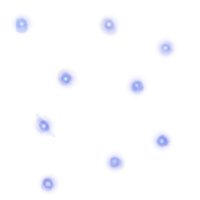
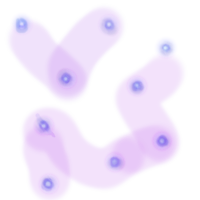
refactors to single component

diff --git a/src/App.vue b/src/App.vue
@@ -1,18 +1,85 @@
 <template>
-  <div id="app">
-    <Game/>
+  <div id="app" ref="wrapper">
+    <div id="back" class="parallax" v-bind:style="{
+      backgroundPositionX: computedX,
+      backgroundPositionY: computedY
+      }">
+    </div>
+    <div id="mid" class="parallax" v-bind:style="{
+      backgroundPositionX: computedX,
+      backgroundPositionY: computedY
+      }">
+    </div>
+    <!-- <div id="front" class="parallax" v-bind:style="{
+      backgroundPositionX: computedX,
+      backgroundPositionY: computedY
+      }">
+    </div> -->
   </div>
 </template>
 
 <script>
-import Game from './components/Game.vue'
-// import { eventBus } from './main.js';
 
 export default {
   name: 'app',
-  components: {
-    Game
+  data() {
+    return {
+      backgroundX: null,
+      backgroundY: null,
+    }
   },
+  computed: {
+    computedX: function () {
+      return this.backgroundX + 'px';
+    },
+    computedY: function () {
+      return this.backgroundY + 'px';
+    }
+  },
+  methods: {
+    addEvent(target, event, listener) {
+      if (target.addEventListener) {
+        target.addEventListener(event, listener);
+      }
+    },
+
+    mouseMove(event) {
+      let windowX = window.innerWidth;
+      let windowY = window.innerHeight;
+      let x = event.pageX;
+      let y = event.pageY;
+      // let newX = x - (windowX / 2);
+      // let newY = y - (windowY / 2);
+
+      this.backgroundX = (windowX - x);
+      this.backgroundY = (windowY - y);
+
+      /*
+      if mouse is in center:
+        set bg position to mouse position
+      otherwise:
+        add mouse position to bg position
+      */
+
+      // if (this.backgroundX == null || this.backgroundY == null) {
+      //   this.backgroundX = (windowX - x);
+      //   this.backgroundY = (windowY - y);
+      //   return;
+      // } else if ((newX > -10 && newX < 10) || (newY > -10 && newY < 10)) {
+      //   this.backgroundX = (windowX - x);
+      //   this.backgroundY = (windowY - y);
+      //   return;
+      // } else {
+      //   this.backgroundX += (windowX - x) / 2;
+      //   this.backgroundY += (windowY - y) / 2;
+      //   return;
+      // }
+    },
+  },
+  mounted() {
+    let wrapper = this.$refs.wrapper;
+    this.addEvent(wrapper, "mousemove", this.mouseMove);
+  }
 }
 </script>
 
@@ -20,14 +87,46 @@ export default {
 
 body {
   margin: 0;
-  background-color: black;
+  background: black;
   text-align: center;
   color: white;
 }
 
 #app {
   height: 100%;
-  width: auto;
+  width: 100%;
+}
+
+#app:hover {
+  cursor: crosshair;
+}
+
+#back {
+  background-image: url('./assets/background/stars_back.png');
+  z-index: 0;
+  transition-duration: 2s;
+}
+
+#mid {
+  background-image: url('./assets/background/stars_mid.png');
+  z-index: 2;
+  transition-duration: 3s;
+}
+
+#front {
+  background-image: url('./assets/background/stars_front.png');
+  z-index: 3;
+  transition-duration: 5s;
+}
+
+.parallax {
+  position: fixed;
+  height: 100%;
+  width: 100%;
+  background-attachment: local;
+  background-position: center;
+  background-repeat: repeat;
+  background-size: auto;
 }
 
 </style>

diff --git a/src/components/Game.vue b/src/components/Game.vue
@@ -1,4 +1,4 @@
-<template lang="html">
+<!-- <template lang="html">
   <div id="wrapper" ref="wrapper">
     <div id="back" class="parallax" v-bind:style="{
       backgroundPositionX: computedX,
@@ -39,6 +39,7 @@ export default {
   },
   methods: {
     addEvent(target, event, listener) {
+      console.log(target);
       if (target.addEventListener) {
         target.addEventListener(event, listener);
       }
@@ -46,14 +47,14 @@ export default {
 
     mouseMove(event) {
       let windowX = window.innerWidth;
-      let windowY = window.innerHeight;
+      // let windowY = window.innerHeight;
       let x = event.pageX;
-      let y = event.pageY;
+      // let y = event.pageY;
       // let newX = x - (windowX / 2);
       // let newY = y - (windowY / 2);
 
       this.backgroundX = (windowX - x);
-      this.backgroundY = (windowY - y);
+      // this.backgroundY = (windowY - y);
 
       /*
       if mouse is in center:
@@ -75,11 +76,23 @@ export default {
       //   this.backgroundY += (windowY - y) / 2;
       //   return;
       // }
+    },
+
+    escKey(event) {
+      console.log(event);
+      this.backGroundScroll();
+    },
+
+    backGroundScroll() {
+      this.backgroundY += 1000;
     }
   },
   mounted() {
     let wrapper = this.$refs.wrapper;
     this.addEvent(wrapper, "mousemove", this.mouseMove);
+    console.log('adding esc listener..');
+    console.log(this);
+    this.addEvent(this.window, "keydown", this.escKey);
   }
 }
 </script>
@@ -94,19 +107,22 @@ export default {
 #back {
   background-image: url('../assets/background/stars_back.png');
   z-index: 0;
-  transition-duration: 0.5s;
+  transition: background-position-x 0.5s linear;
+  transition-duration: 1s;
 }
 
 #mid {
   background-image: url('../assets/background/stars_mid.png');
   z-index: 2;
-  transition-duration: 1s;
+  transition: background-position-x 1s linear;
+  transition-duration: 2s;
 }
 
 #front {
   background-image: url('../assets/background/stars_front.png');
   z-index: 3;
-  transition-duration: 2s;
+  transition: background-position-x 2s linear;
+  transition-duration: 4s;
 }
 
 .parallax {
@@ -119,4 +135,4 @@ export default {
   background-size: auto;
 }
 
-</style>
+</style> -->
